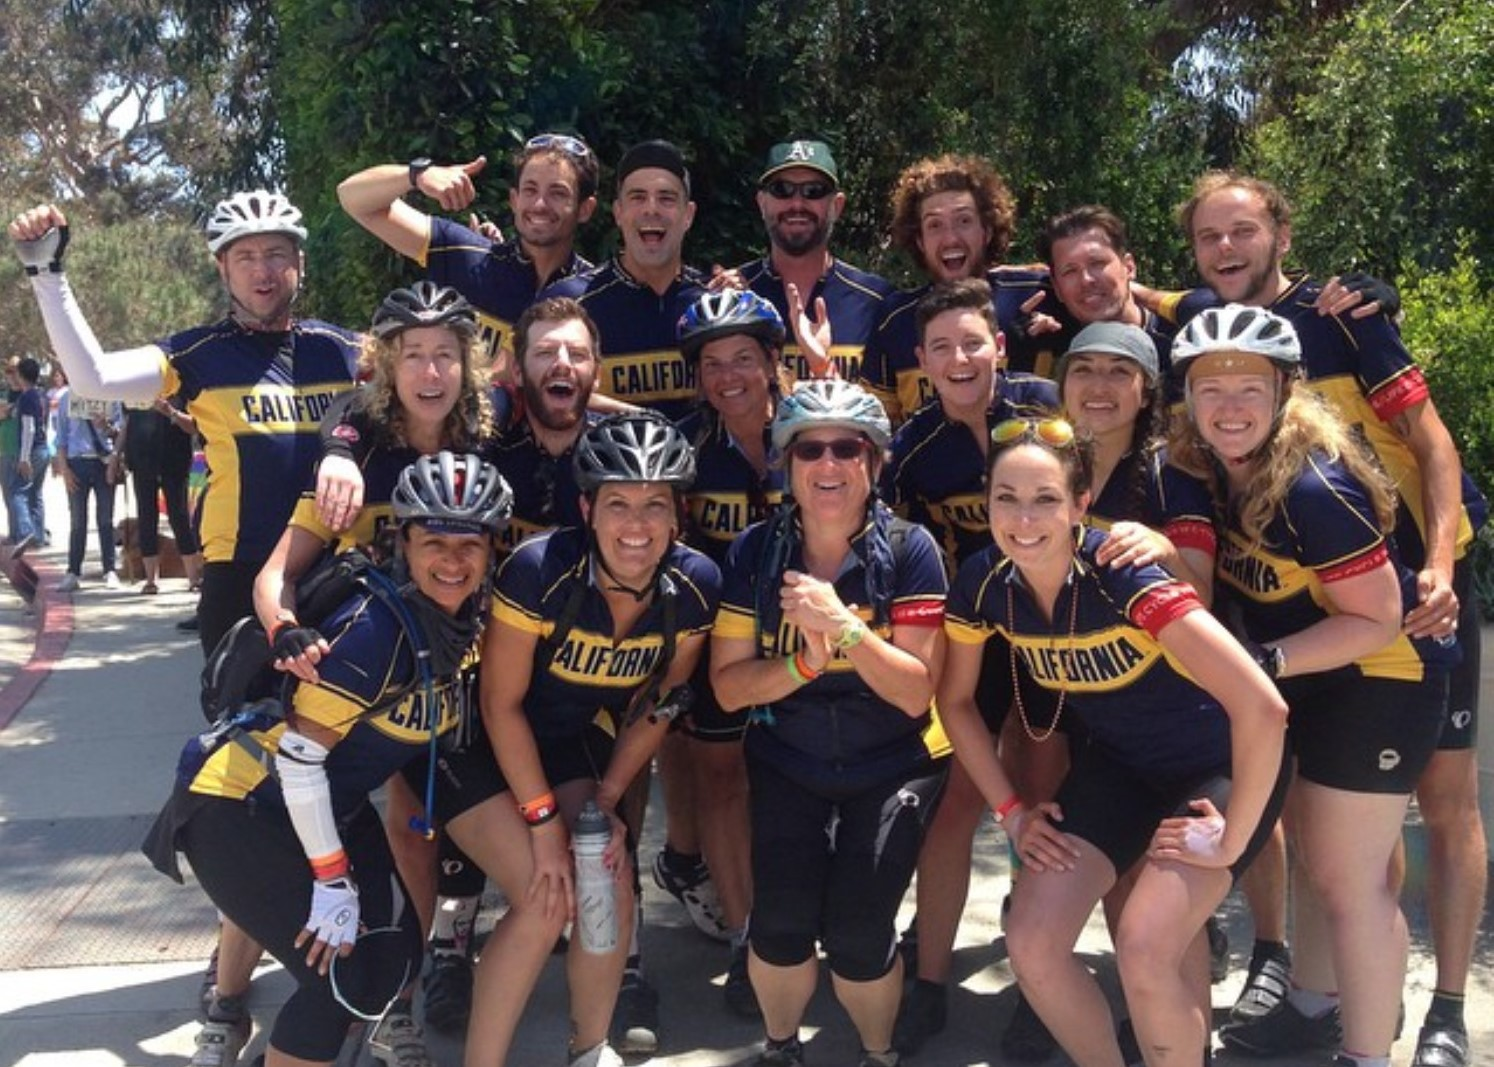
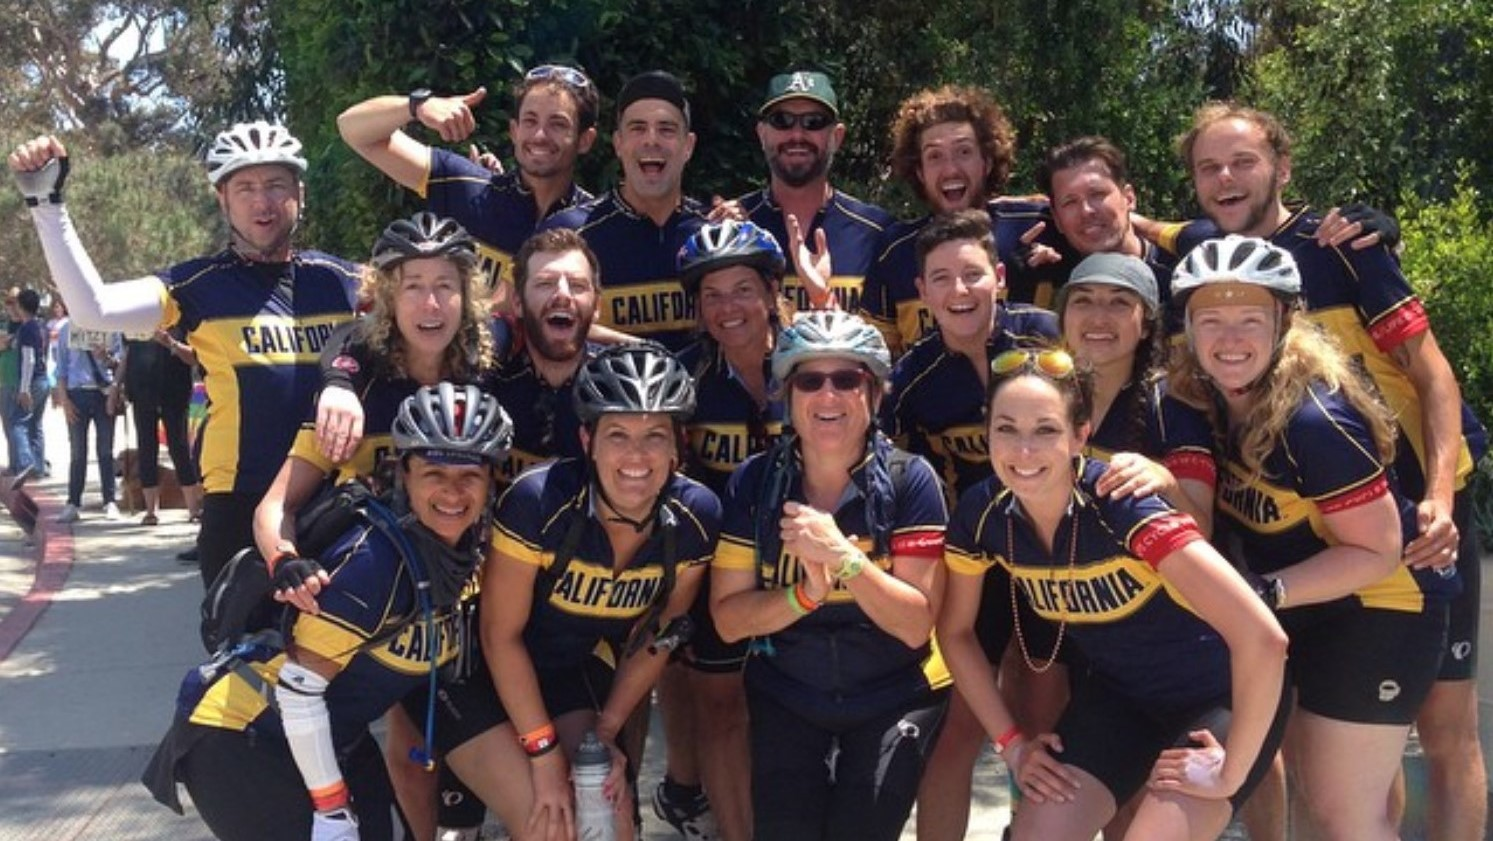
A few updates to the site
Mostly making Kirstie's profile look good :)

diff --git a/_includes/modals.html b/_includes/modals.html
@@ -17,16 +17,8 @@
                             <img src="img/portfolio/{{ post.img }}" class="img-responsive img-centered" alt="{{ post.alt }}">
                             <p>{{ post.description }}</p>
                             <ul class="list-inline item-details">
-                                <li>Client:
-                                    <strong><a href="http://startbootstrap.com">{{ post.client }}</a>
-                                    </strong>
-                                </li>
-                                <li>Date:
-                                    <strong><a href="http://startbootstrap.com">{{ post.project-date }}</a>
-                                    </strong>
-                                </li>
-                                <li>Service:
-                                    <strong><a href="http://startbootstrap.com">{{ post.category }}</a>
+                                <li>Donation page:
+                                    <strong><a href="{{ post.fundraisinglink }}">{{ post.fundraisinglink }}</a>
                                     </strong>
                                 </li>
                             </ul>

diff --git a/_includes/header.html b/_includes/header.html
@@ -3,7 +3,7 @@
         <div class="container">
             <div class="row">
                 <div class="col-lg-12">
-                    <img class="img-responsive" src="img/profile.jpg" alt="">
+                    <img class="img-responsive" style="max-height: 500px;" src="img/profile.jpg" alt="Cal Team">
                     <div class="intro-text">
                         <span class="name">{{ site.title }}</span>
                         <hr class="star-light">

diff --git a/_includes/portfolio_grid.html b/_includes/portfolio_grid.html
@@ -4,7 +4,7 @@
         <div class="container">
             <div class="row">
                 <div class="col-lg-12 text-center">
-                    <h2>Portfolio</h2>
+                    <h2>Team Members</h2>
                     <hr class="star-primary">
                 </div>
             </div>
